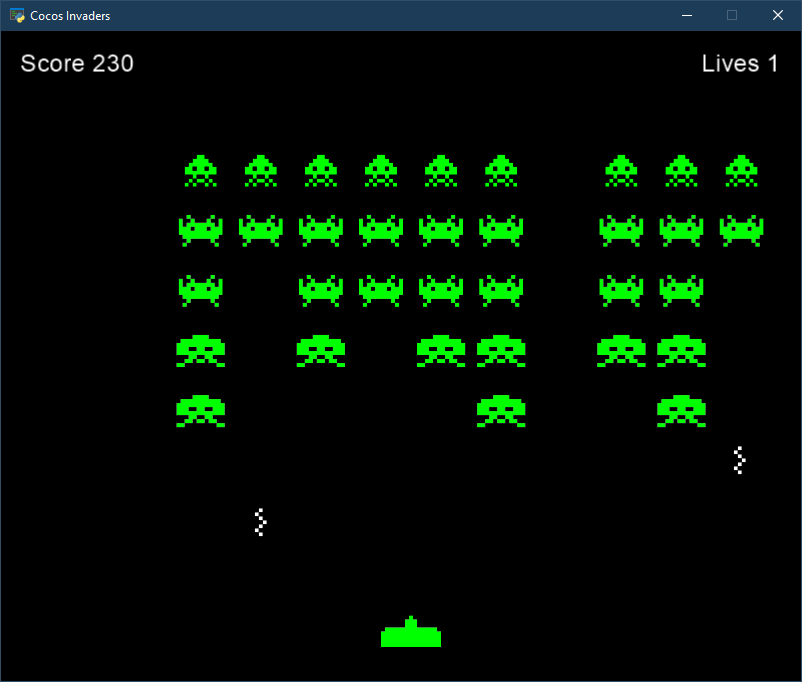
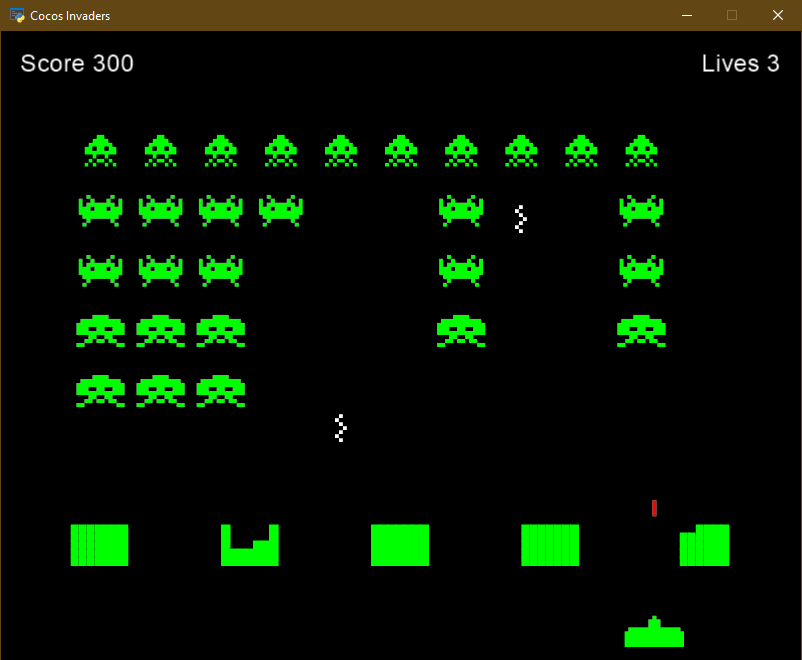
Add bunkers

diff --git a/CocosInvaders/main.py b/CocosInvaders/main.py
@@ -18,7 +18,7 @@ class Actor(cocos.sprite.Sprite):
         # self.position is defined in cocos.sprite.Sprite with type (int, int)
         # assigning self.position type eu.Vector2(int,int) seems to assign the type (int,int)
         self.position = pos
-        self.cshape = cm.CircleShape(pos, self.width / 2)
+        self.cshape = cm.AARectShape(self.position, self.width / 2, self.height / 2)
 
     def move(self, offset):
         self.position += offset
@@ -66,6 +66,7 @@ class GameLayer(cocos.layer.Layer):
         self.update_score()
         self.create_player()
         self.create_alien_group(100, 300)
+        self.create_bunker_groups()
 
         # recommended cell size is the maximum object width *1.25
         cell = self.player.width * 1.25
@@ -96,6 +97,15 @@ class GameLayer(cocos.layer.Layer):
         for alien_column in self.alien_group:
             self.add(alien_column)
 
+    def create_bunker_groups(self):
+        for i in range(75, 775, 150):
+            self.create_bunker_group(i)
+
+    def create_bunker_group(self, initial_x):
+        for x in range(initial_x, initial_x + 50, 8):
+            for y in range(120, 160, 8):
+                self.add(Bunker(x, y))
+
     def update(self, dt):
         self.collman.clear()
 
@@ -112,7 +122,7 @@ class GameLayer(cocos.layer.Layer):
             if len(v) > 0:
                 k.kill()
 
-        for k, v in self.collide_with_group(self.player, self.get_by_child_types((Shoot, Alien))).items():
+        for k, v in self.collide_with_group(self.player, self.get_children_by_types((Shoot, Alien))).items():
             sprite: cocos.sprite.Sprite
             for sprite in v:
                 sprite.kill()
@@ -120,6 +130,15 @@ class GameLayer(cocos.layer.Layer):
             if len(v) > 0:
                 k.kill()
                 self.respawn_player()
+
+        for k, v in self.group_collide(
+                self.get_children_by_types(Shoot),
+                self.get_children_by_types(Bunker)
+        ).items():
+            for bunker in v:
+                bunker.kill()
+            if len(v) > 0:
+                k.kill()
 
         no_more_aliens = all([len(column.aliens) == 0 for column in self.alien_group.columns])
         if no_more_aliens:
@@ -138,7 +157,7 @@ class GameLayer(cocos.layer.Layer):
         if random.random() < 0.001:
             self.add(MysteryShip(50, self.height - 50))
 
-    def get_by_child_types(self, classes):
+    def get_children_by_types(self, classes):
         # child[1] :Actor
         return [child[1] for child in self.children if isinstance(child[1], classes)]
 
@@ -165,6 +184,11 @@ class GameLayer(cocos.layer.Layer):
             self.hud.show_game_over()
         else:
             self.create_player()
+
+
+class Bunker(Actor):
+    def __init__(self, x, y):
+        super(Bunker, self).__init__("img/bunkerPart.png", x, y)
 
 
 class Alien(Actor):
@@ -227,7 +251,7 @@ class AlienColumn(object):
 
     def shoot(self):
         # We set a low probability of shooting since random() is called multiple times per second
-        if random.random() < 0.001 and len(self.aliens) > 0:
+        if random.random() < 0.002 and len(self.aliens) > 0:
             bottom_most_alien_position = self.aliens[0].position
             return Shoot(bottom_most_alien_position[0], bottom_most_alien_position[1] - 50)
         return None
